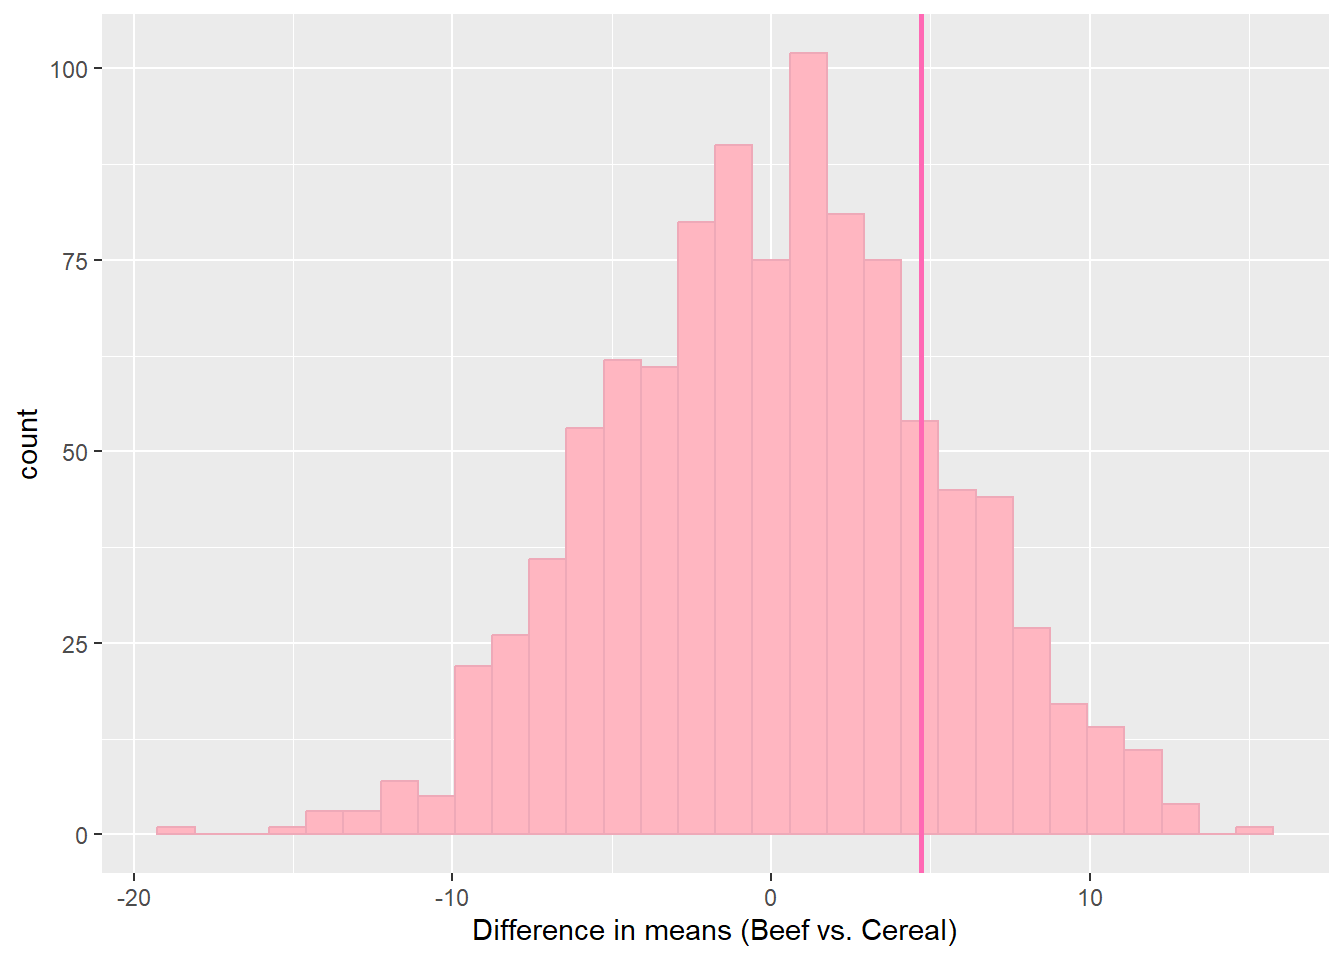
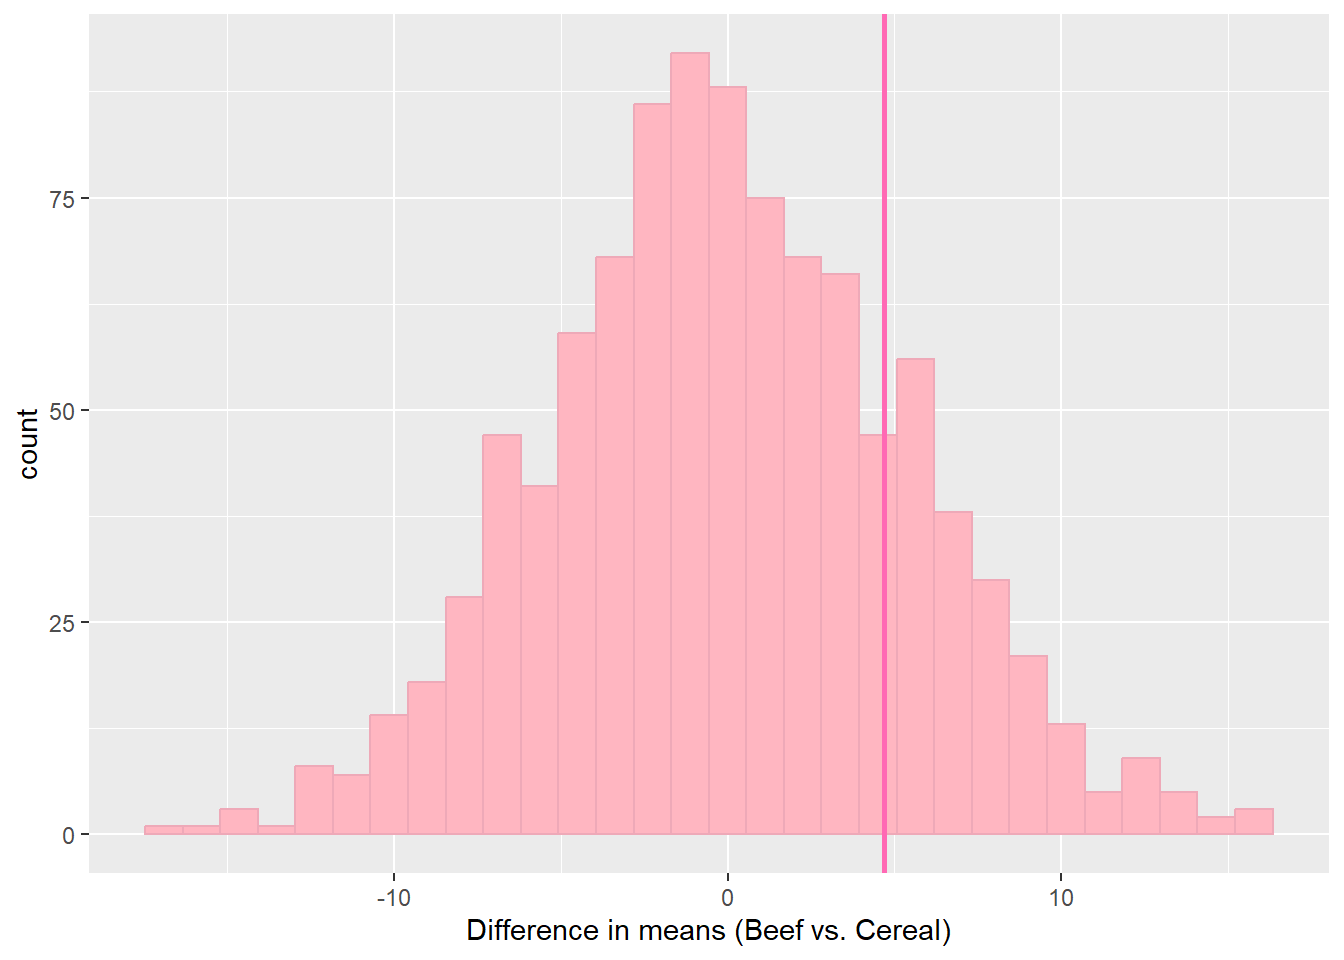
MORE RATS!

diff --git a/docs/mini_project2.html b/docs/mini_project2.html
@@ -152,25 +152,25 @@ ul.task-list li input[type="checkbox"] {
 <h3 class="anchored" data-anchor-id="fat-rats">Fat Rats!</h3>
 <p>For this project, I examined the dataset FatRats, which has data from an experiment on the effects of diet on the weight gain of rats. The study had 60 baby rat participants. They split them up into groups, where they were fed different sources of protein(Beef, Cereal, and Pork). The results show the weight gain for each rat from their protein source.</p>
 <p>I decided to conduct a randomization-type test by simulating the behavior under the null hypothesis. I wanted to see if the results of the study would be significant. I did this by running simulations of the study and randomizing the protein source to see if a random test would produce significantly different responses than the experiment did.</p>
-<p>The following graphs show the difference in average wait gains between different proteins with the randomized test. The hot pink vertical line shows the average wait gain from the study that was run. The p-values below each chart show the probability under the null hypothesis(our randomized experiment) of obtaining a test statistic at least as extreme as the one obtained. The p-values are calculated by looking at how many of the randomized statistics are greater than or equal to the observed statistics from the rat study.</p>
+<p>The following graphs show the difference in average weight gains between different proteins with the randomized test. The hot pink vertical line shows the average weight gain from the study that was run. The p-values below each chart show the probability under the null hypothesis(our randomized experiment) of obtaining a test statistic at least as extreme as the one obtained. The p-values are calculated by looking at how many of the randomized statistics are greater than or equal to the observed statistics from the rat study.</p>
 <div class="cell">
 <div class="cell-output-display">
 <p><img src="mini_project2_files/figure-html/unnamed-chunk-3-1.png" class="img-fluid" width="672"></p>
 </div>
 <div class="cell-output cell-output-stdout">
-<pre><code>Beef vs. Pork p-value: 0.28 </code></pre>
+<pre><code>Beef vs. Pork p-value: 0.294 </code></pre>
 </div>
 <div class="cell-output-display">
 <p><img src="mini_project2_files/figure-html/unnamed-chunk-3-2.png" class="img-fluid" width="672"></p>
 </div>
 <div class="cell-output cell-output-stdout">
-<pre><code>Beef vs. Cereal p-value: 0.29 </code></pre>
+<pre><code>Beef vs. Cereal p-value: 0.283 </code></pre>
 </div>
 <div class="cell-output-display">
 <p><img src="mini_project2_files/figure-html/unnamed-chunk-3-3.png" class="img-fluid" width="672"></p>
 </div>
 <div class="cell-output cell-output-stdout">
-<pre><code>Pork vs. Cereal p-value: 0.287 </code></pre>
+<pre><code>Pork vs. Cereal p-value: 0.283 </code></pre>
 </div>
 </div>
 <p>As we can see, all of the p-values are close to 0.3. Generally, if the p-value is less than 0.05, we will consider the results of the study statistically significant. Because these results are well over the point of statistical significance, we can fail to reject the null hypothesis and claim that the difference in weight gains due to different protiens is not statistically significant.</p>
